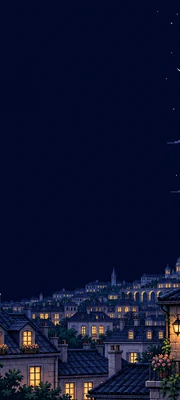
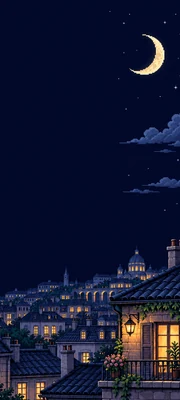
feat: ship dark retro wallpaper collection with six brutalist designs
Add cyberpunk, brutalist, CRT, arcade and minimal dark originals. Remove rejected cute artwork from both editions, preserve reviewed focal crops and validate all 16 assets on phone layouts.

diff --git a/app/src/main/assets/wallpapers/catalog.js b/app/src/main/assets/wallpapers/catalog.js
@@ -1,13 +1,19 @@
 /* Separate files; source provenance is recorded by scripts/import-wallpapers.py. */
 const WALLPAPERS = [
- {id:"moonlit-city",name:"Moonlit City",light:false,motion:"stars"},
+ {id:"moonlit-city",name:"Moonlit City",light:false,motion:"stars",position:"90% center"},
  {id:"rainy-neon",name:"Rainy Neon",light:false,motion:"rain"},
  {id:"northern-lights",name:"Northern Lights",light:false,motion:"aurora"},
- {id:"purple-planet",name:"Purple Planet",light:false,motion:"stars"},
+ {id:"purple-planet",name:"Purple Planet",light:false,motion:"stars",position:"60% center"},
  {id:"midnight-studio",name:"Midnight Studio",light:false,motion:"studio"},
- {id:"pastel-sunrise",name:"Pastel Sunrise",light:true,motion:"aurora"},
- {id:"tropical-beach",name:"Tropical Beach",light:true,motion:"ocean"},
- {id:"sunset-highway",name:"Sunset Highway",light:true,motion:"stars"},
- {id:"floating-islands",name:"Floating Islands",light:true,motion:"aurora"},
- {id:"retro-music",name:"Retro Music",light:true,motion:"studio"}
-].map(item=>({...item,src:"wallpapers/"+item.id+".webp",thumb:"wallpapers/thumbs/"+item.id+".webp",position:"35% center"}));
+ {id:"cyberpunk-rooftops",name:"Cyberpunk Rooftops",light:false,motion:"studio"},
+ {id:"cyberpunk-alley",name:"Cyberpunk Alley",light:false,motion:"rain"},
+ {id:"brutalist-concrete",name:"Brutalist Concrete Noir",light:false,motion:"none"},
+ {id:"brutalist-monolith",name:"Brutalist Monolith",light:false,motion:"none"},
+ {id:"brutalist-tower",name:"Brutalist Tower",light:false,motion:"stars"},
+ {id:"brutalist-stairs",name:"Brutalist Stairs",light:false,motion:"none"},
+ {id:"brutalist-courtyard",name:"Brutalist Courtyard",light:false,motion:"studio"},
+ {id:"brutalist-red",name:"Brutalist Red",light:false,motion:"none"},
+ {id:"minimal-lunar",name:"Minimal Lunar",light:false,motion:"stars",position:"100% center"},
+ {id:"crt-terminal",name:"Retro CRT Terminal",light:false,motion:"studio",position:"70% center"},
+ {id:"arcade-afterhours",name:"Arcade After Hours",light:false,motion:"studio",position:"75% center"}
+].map(item=>({...item,src:"wallpapers/"+item.id+".webp",thumb:"wallpapers/thumbs/"+item.id+".webp",position:item.position||"35% center"}));

diff --git a/app/src/main/assets/personalization.js b/app/src/main/assets/personalization.js
@@ -1,7 +1,7 @@
 /* Full-resolution wallpapers are decoded only when selected. Gallery uses small files. */
 const CLOCK_DESIGNS=["Minimal","Arcade Pixel","Bold Mono","Thin","8-Bit Block","Shadow","Heavy","Underlined","Neon Pixel","Framed"];
 const loadPersonalInt=(key,fallback,max)=>{const raw=localStorage.getItem(key);const n=raw===null?NaN:Number(raw);return Number.isInteger(n)&&n>=0&&n<=max?n:fallback};
-let selectedWallpaper=loadPersonalInt("ar_wallpaper_v1",0,9);
+let selectedWallpaper=loadPersonalInt("ar_wallpaper_v1",0,WALLPAPERS.length-1);
 let clockDesign=loadPersonalInt("ar_clock_style_v1",0,9);
 let clockSize=loadPersonalInt("ar_clock_size_v1",66,110);
 if(clockSize<48)clockSize=66;

diff --git a/scripts/import-wallpapers.py b/scripts/import-wallpapers.py
@@ -16,8 +16,12 @@ from PIL import Image, ImageChops, ImageOps, ImageStat
 
 ROOT = Path(__file__).resolve().parent.parent
 IDS = ['moonlit-city', 'rainy-neon', 'northern-lights', 'purple-planet',
-       'midnight-studio', 'pastel-sunrise', 'tropical-beach', 'sunset-highway',
-       'floating-islands', 'retro-music']
+       'midnight-studio', 'cyberpunk-rooftops', 'cyberpunk-alley',
+       'brutalist-concrete', 'brutalist-monolith', 'brutalist-tower',
+       'brutalist-stairs', 'brutalist-courtyard', 'brutalist-red',
+       'minimal-lunar', 'crt-terminal', 'arcade-afterhours']
+POSITIONS = {'moonlit-city': .90, 'purple-planet': .60, 'minimal-lunar': 1.0,
+             'crt-terminal': .70, 'arcade-afterhours': .75}
 
 
 def psnr(a, b):
@@ -70,24 +74,25 @@ def main():
             fidelity = psnr(image, decoded)
             if fidelity < 38 or target.stat().st_size > 2500_000:
                 parser.error(f'{source.name}: cannot meet quality/size budget (PSNR {fidelity:.1f} dB)')
-            # Same crop anchor as object-position:35% center; no distortion.
-            thumb = ImageOps.fit(image, (180, 400), Image.Resampling.LANCZOS, centering=(.35, .5))
+            # Match each portrait's reviewed phone crop; no distortion.
+            anchor = POSITIONS.get(name, .35)
+            thumb = ImageOps.fit(image, (180, 400), Image.Resampling.LANCZOS, centering=(anchor, .5))
             thumb_path = staged / 'thumbs' / f'{name}.webp'
             thumb.save(thumb_path, 'WEBP', quality=88, method=6)
             records.append(dict(id=name, origin='generated-replacement' if args.generated else 'recovered-original',
                                 sourceName=source.name, sourceSha256=sha(source),
                                 sourceWidth=w, sourceHeight=h, width=image.width, height=image.height,
                                 sha256=sha(target), thumbnailSha256=sha(thumb_path),
-                                encoding=quality, psnr=round(fidelity, 2), cropAnchor=[.35, .5]))
-        if sum(p.stat().st_size for p in staged.glob('*.webp')) > 16_000_000:
-            parser.error('Pack exceeds the 16 MB compressed wallpaper budget')
+                                encoding=quality, psnr=round(fidelity, 2), cropAnchor=[anchor, .5]))
+        if sum(p.stat().st_size for p in staged.glob('*.webp')) > len(IDS) * 1600_000:
+            parser.error('Pack exceeds the average 1.6 MB per wallpaper compression budget')
         import shutil
         for name in IDS:
             shutil.copy2(staged / f'{name}.webp', out / f'{name}.webp')
             (out / 'thumbs').mkdir(exist_ok=True)
             shutil.copy2(staged / 'thumbs' / f'{name}.webp', out / 'thumbs' / f'{name}.webp')
-        (out / 'provenance.json').write_text(json.dumps(records, indent=2) + '\n', encoding='utf-8')
-    print('Imported 10 original portraits and 10 thumbnails; no atlas, no upscaling.')
+        (out / 'provenance.json').write_text(json.dumps(records, indent=2) + '\n', encoding='utf-8', newline='\n')
+    print(f'Imported {len(IDS)} original portraits and {len(IDS)} thumbnails; no atlas, no upscaling.')
 
 
 if __name__ == '__main__':

diff --git a/scripts/verify-artifacts.py b/scripts/verify-artifacts.py
@@ -28,6 +28,11 @@ for archive_path, asset, source, store in [
         required += [str(p.relative_to(assets)).replace('\\', '/') for p in (assets / 'fonts').glob('*')]
         for record in provenance:
             required += [f"wallpapers/{record['id']}.webp", f"wallpapers/thumbs/{record['id']}.webp"]
+        expected_wallpapers = {name for name in required if name.startswith('wallpapers/') and name.endswith('.webp')}
+        actual_wallpapers = {name[len(prefix):] for name in archive.namelist()
+                             if name.startswith(prefix + 'wallpapers/') and name.endswith('.webp')}
+        if actual_wallpapers != expected_wallpapers:
+            raise SystemExit('Unexpected or missing wallpaper files packaged in ' + str(archive_path))
         for relative in required:
             if archive.read(prefix + relative) != (assets / relative).read_bytes():
                 raise SystemExit(f'Wrong or missing packaged personalization asset: {relative}')

diff --git a/docs/v2.5-status.md b/docs/v2.5-status.md
@@ -1,19 +1,23 @@
 # Audio Desk Launcher v2.5
 
-The user approved recreating the unavailable artwork. This edition contains ten
+The user approved recreating the unavailable artwork. This edition contains sixteen
 new, independently generated 8-bit-inspired portrait wallpapers; they are not
 recoveries of the old ChatGPT pack.
+
+The final collection follows the userâ€™s dark retro preference: six brutalist
+designs, cyberpunk scenes, minimal lunar, CRT and arcade artwork. Pastel, beach,
+floating-island and playful music-room designs are excluded from both the gallery
+and the APK files.
 
 ## Artwork and memory
 
 Each original is 1024 x 1536 pixels at the image generator's native resolution.
-All ten are stored in lossless WebP with every original pixel preserved: no atlas,
+All sixteen are stored in lossless WebP with every original pixel preserved: no atlas,
 no downsampling, no enlarged sprite, and no artificially inflated dimensions.
 Each chosen image decodes to about 6 MiB; only that full-size image is resident.
 The gallery uses separate 180 x 400 WebP thumbnails. Portraits fill phone screens
-with cover cropping anchored at 35% horizontally and continue behind the status
-bar. Quiet center-left space supports clock and app labels; the five light designs
-use dark labels. Source/output hashes, dimensions and exact fidelity are recorded
+with reviewed cover-crop anchors that keep focal subjects visible and continue behind the status
+bar. Quiet center-left space supports clock and app labels; all bundled designs use white labels on dark backgrounds. Source/output hashes, dimensions and exact fidelity are recorded
 in app/src/main/assets/wallpapers/provenance.json.
 
 ## Personalization
@@ -32,7 +36,7 @@ in app/src/main/assets/wallpapers/provenance.json.
 
 Run `npm test` for regression, interaction, actual-asset and phone-layout checks.
 The asset checks require complete native generated resolution, lossless fidelity,
-unique source hashes, independent thumbnails and the 16 MB wallpaper pack budget.
+unique source hashes, independent thumbnails and the average 1.6 MB per wallpaper pack budget.
 Actual-artwork tests exercise 16:9, 20:9 and tall phone viewports. The APK/AAB verifier
 checks that every wallpaper, thumbnail, font and personalization file is packaged
 unchanged. Android photo-picker tests, unit tests and builds run in GitHub Actions.
